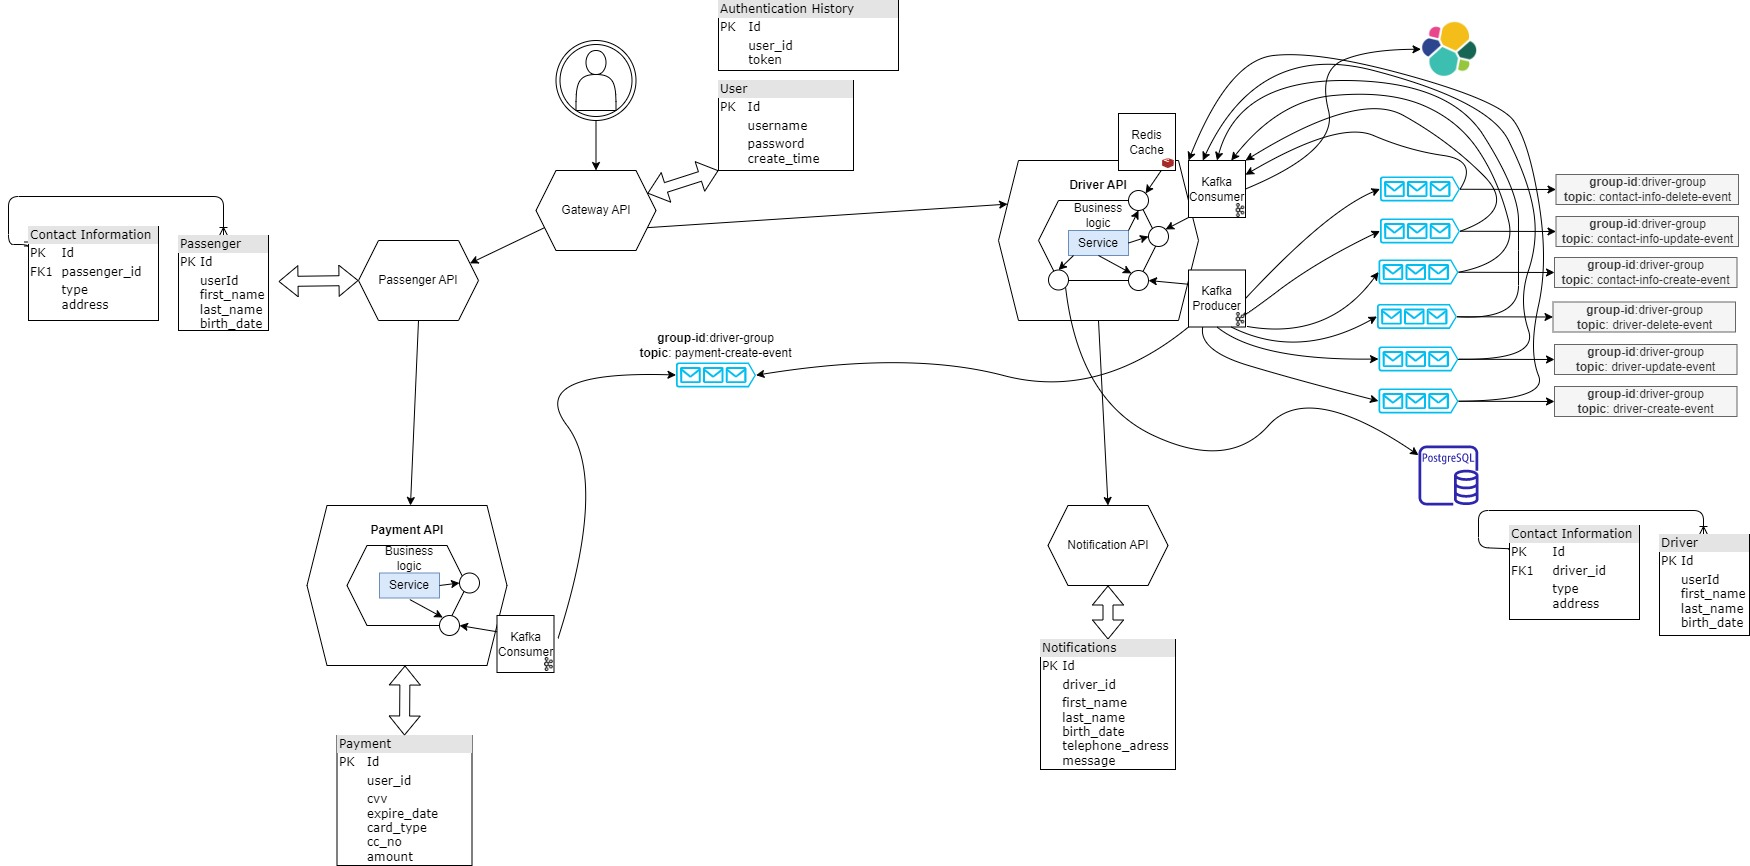
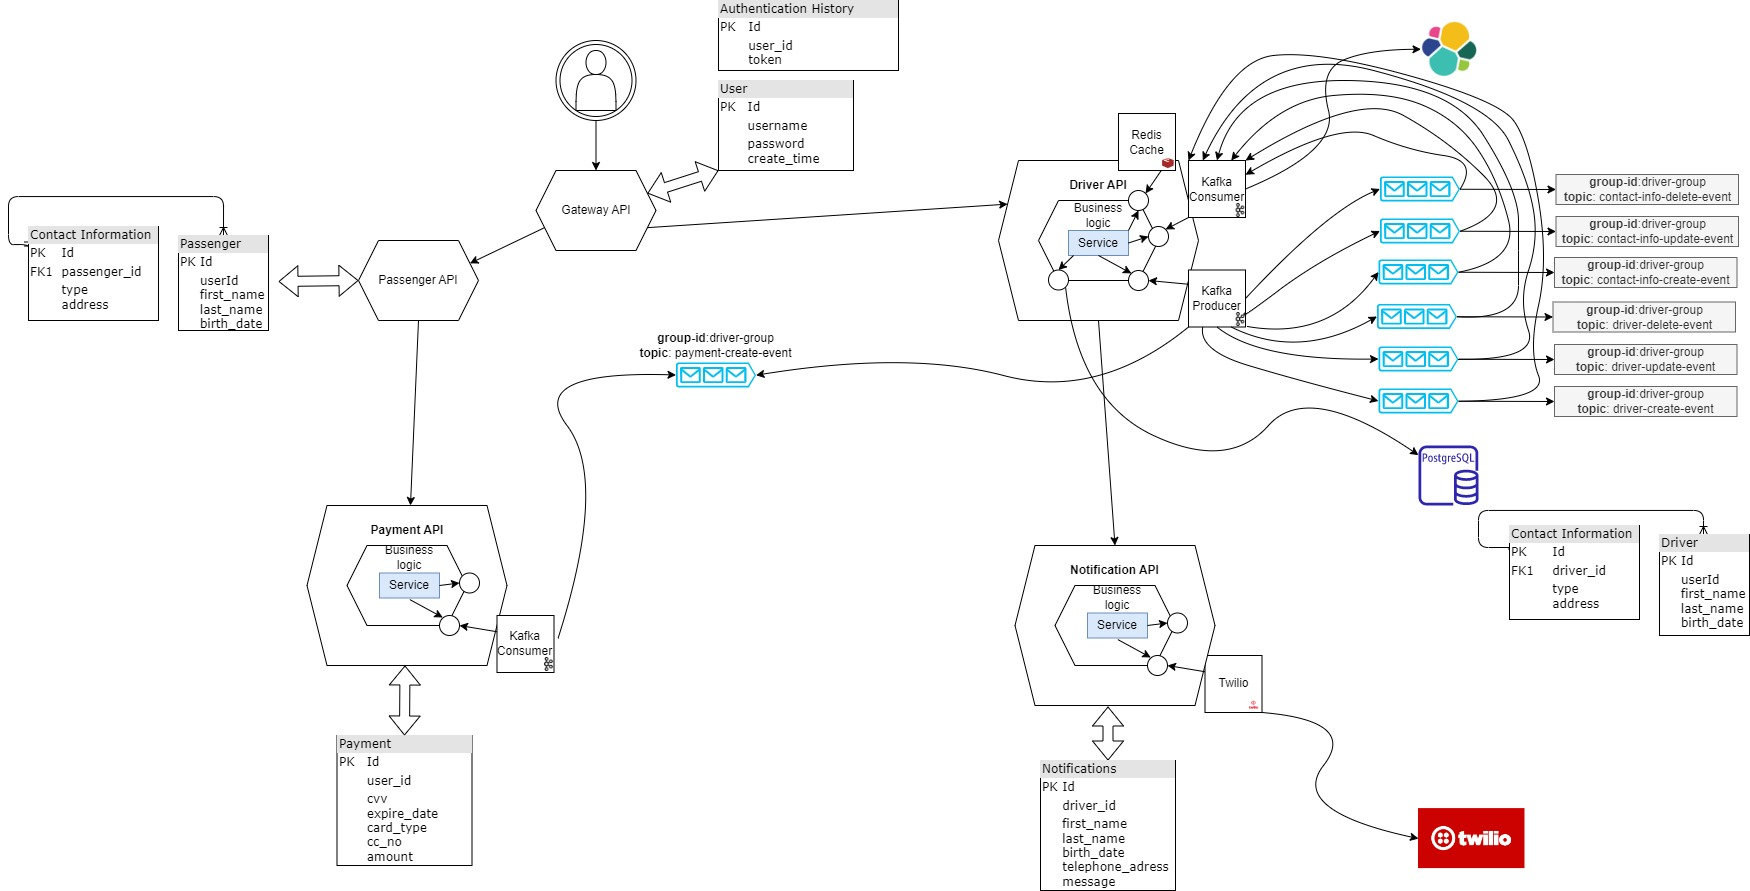
twilio outbound adapter added

diff --git a/src/test/java/com/semihshn/notificationservice/domain/notification/NotificationServiceTest.java b/src/test/java/com/semihshn/notificationservice/domain/notification/NotificationServiceTest.java
@@ -1,6 +1,7 @@
 package com.semihshn.notificationservice.domain.notification;
 
 import com.semihshn.notificationservice.domain.port.NotificationPort;
+import com.semihshn.notificationservice.domain.port.TwilioPort;
 import org.junit.jupiter.api.BeforeEach;
 import org.junit.jupiter.api.Test;
 import org.junit.jupiter.api.extension.ExtendWith;
@@ -10,7 +11,6 @@ import org.mockito.junit.jupiter.MockitoExtension;
 import java.time.LocalDate;
 
 import static org.assertj.core.api.Assertions.assertThat;
-
 import static org.mockito.Mockito.*;
 
 @ExtendWith(MockitoExtension.class)
@@ -21,25 +21,40 @@ class NotificationServiceTest {
     @Mock
     NotificationPort notificationPort;
 
+    @Mock
+    TwilioPort twilioPort;
+
     @BeforeEach
     void setUp() {
-        notificationService = new NotificationService(notificationPort);
+        notificationService = new NotificationService(notificationPort, twilioPort);
     }
 
     @Test
     void create() {
         //given
+        String ACCOUNT_SID = "1001";
+        String TO = "1002";
+        String FROM = "1003";
+        String MESSAGE = "message_test";
+
         Notification notification = Notification.builder().build();
 
         //mock
         Notification createdNotification = Notification.builder().id(3L).build();
         when(notificationPort.create(any())).thenReturn(createdNotification);
 
+        TwilioResponse twilioResponse = TwilioResponse.builder()
+                .accountSid(ACCOUNT_SID)
+                .to(TO)
+                .from(FROM)
+                .build();
+        when(twilioPort.sendSms(notification)).thenReturn(twilioResponse);
+
         //when
-        Long createdNotificationId = notificationService.create(notification);
+        TwilioResponse createdMessage = notificationService.send(notification);
 
         //then
-        assertThat(createdNotificationId).isEqualTo(3);
+        assertThat(createdMessage.getAccountSid()).isEqualTo(ACCOUNT_SID);
     }
 
     @Test

diff --git a/src/main/java/com/semihshn/notificationservice/adapter/rest/notification/NotificationController.java b/src/main/java/com/semihshn/notificationservice/adapter/rest/notification/NotificationController.java
@@ -1,9 +1,11 @@
 package com.semihshn.notificationservice.adapter.rest.notification;
 
-import com.semihshn.notificationservice.adapter.rest.notification.request.NotificationCreateRequest;
-import com.semihshn.notificationservice.adapter.rest.notification.response.NotificationCreateResponse;
+import com.semihshn.notificationservice.adapter.rest.notification.request.NotificationSendRequest;
+import com.semihshn.notificationservice.adapter.rest.notification.response.NotificationSendResponse;
 import com.semihshn.notificationservice.adapter.rest.notification.response.NotificationResponse;
 import com.semihshn.notificationservice.domain.notification.NotificationService;
+import com.semihshn.notificationservice.domain.notification.TwilioResponse;
+import com.twilio.rest.api.v2010.account.Message;
 import lombok.RequiredArgsConstructor;
 import org.springframework.http.HttpStatus;
 import org.springframework.web.bind.annotation.*;
@@ -17,9 +19,9 @@ public class NotificationController {
     private final NotificationService notificationService;
 
     @PostMapping()
-    public NotificationCreateResponse create(@RequestBody @Valid NotificationCreateRequest request) {
-        Long createdNotificationId = notificationService.create(request.convertToNotification());
-        return NotificationCreateResponse.builder().id(createdNotificationId).build();
+    public NotificationSendResponse send(@RequestBody @Valid NotificationSendRequest request) {
+        TwilioResponse twilioResponse = notificationService.send(request.convertToNotification());
+        return NotificationSendResponse.from(twilioResponse);
     }
 
     @DeleteMapping("{notificationId}")

diff --git a/src/main/java/com/semihshn/notificationservice/adapter/twilio/TwilioAdapter.java b/src/main/java/com/semihshn/notificationservice/adapter/twilio/TwilioAdapter.java
@@ -1,0 +1,35 @@
+package com.semihshn.notificationservice.adapter.twilio;
+
+import com.semihshn.notificationservice.domain.notification.Notification;
+import com.semihshn.notificationservice.domain.notification.TwilioResponse;
+import com.semihshn.notificationservice.domain.port.TwilioPort;
+import com.twilio.Twilio;
+import com.twilio.rest.api.v2010.account.Message;
+import com.twilio.type.PhoneNumber;
+import lombok.extern.slf4j.Slf4j;
+import org.springframework.stereotype.Service;
+
+@Service
+@Slf4j
+public class TwilioAdapter implements TwilioPort {
+
+    private final TwilioProperties twilioProperties;
+
+    public TwilioAdapter(TwilioProperties twilioProperties) {
+        this.twilioProperties = twilioProperties;
+    }
+
+    @Override
+    public TwilioResponse sendSms(Notification notification) {
+        Twilio.init(twilioProperties.getAccountSid(), twilioProperties.getAuthToken());
+        Message message = Message.creator(
+                        new PhoneNumber(notification.getTelephoneAddress()),
+                        new PhoneNumber(twilioProperties.getPhoneNumber()),
+                        notification.getMessage())
+                .create();
+
+        log.info("twilio message sent, message sid: {}",message.getSid());
+
+        return TwilioResponse.from(message);
+    }
+}

diff --git a/src/main/java/com/semihshn/notificationservice/domain/notification/NotificationService.java b/src/main/java/com/semihshn/notificationservice/domain/notification/NotificationService.java
@@ -1,17 +1,26 @@
 package com.semihshn.notificationservice.domain.notification;
 
 import com.semihshn.notificationservice.domain.port.NotificationPort;
+import com.semihshn.notificationservice.domain.port.TwilioPort;
+import com.twilio.rest.api.v2010.account.Message;
 import lombok.RequiredArgsConstructor;
+import lombok.extern.slf4j.Slf4j;
 import org.springframework.stereotype.Service;
 
 @Service
 @RequiredArgsConstructor
+@Slf4j
 public class NotificationService {
     private final NotificationPort notificationPort;
+    private final TwilioPort twilioPort;
 
-    public Long create(Notification notification) {
+    public TwilioResponse send(Notification notification) {
+        TwilioResponse twilioResponse = twilioPort.sendSms(notification);
+
         Notification temp = notificationPort.create(notification);
-        return temp.getId();
+        log.info("notification saved to db, notification persistence id: {}", temp.getId());
+
+        return twilioResponse;
     }
 
     public Notification retrieve(Long id) {

diff --git a/src/main/java/com/semihshn/notificationservice/adapter/rest/notification/response/NotificationSendResponse.java b/src/main/java/com/semihshn/notificationservice/adapter/rest/notification/response/NotificationSendResponse.java
@@ -1,0 +1,26 @@
+package com.semihshn.notificationservice.adapter.rest.notification.response;
+
+import com.semihshn.notificationservice.domain.notification.TwilioResponse;
+import com.twilio.rest.api.v2010.account.Message;
+import lombok.*;
+
+@Setter
+@Getter
+@Builder
+@NoArgsConstructor
+@AllArgsConstructor
+public class NotificationSendResponse {
+    private String from;
+    private String to;
+    private String price;
+    private String accountSid;
+
+    public static NotificationSendResponse from(TwilioResponse twilioResponse) {
+        return NotificationSendResponse.builder()
+                .from(twilioResponse.getFrom())
+                .to(twilioResponse.getTo())
+                .price(twilioResponse.getPrice())
+                .accountSid(twilioResponse.getAccountSid())
+                .build();
+    }
+}

diff --git a/src/main/java/com/semihshn/notificationservice/adapter/twilio/TwilioProperties.java b/src/main/java/com/semihshn/notificationservice/adapter/twilio/TwilioProperties.java
@@ -1,0 +1,27 @@
+package com.semihshn.notificationservice.adapter.twilio;
+
+import lombok.Getter;
+import lombok.Setter;
+import org.springframework.boot.context.properties.ConfigurationProperties;
+import org.springframework.context.annotation.Configuration;
+import org.springframework.validation.annotation.Validated;
+
+import javax.validation.constraints.NotBlank;
+import javax.validation.constraints.NotNull;
+
+@Getter
+@Setter
+@Validated
+@Configuration
+@ConfigurationProperties(prefix = "twilio")
+public class TwilioProperties {
+
+    @NotBlank
+    private String accountSid;
+
+    @NotNull
+    private String authToken;
+
+    @NotNull
+    private String phoneNumber;
+}

diff --git a/src/main/java/com/semihshn/notificationservice/domain/notification/TwilioResponse.java b/src/main/java/com/semihshn/notificationservice/domain/notification/TwilioResponse.java
@@ -1,0 +1,25 @@
+package com.semihshn.notificationservice.domain.notification;
+
+import com.twilio.rest.api.v2010.account.Message;
+import lombok.*;
+
+@Setter
+@Getter
+@Builder
+@NoArgsConstructor
+@AllArgsConstructor
+public class TwilioResponse {
+    private String from;
+    private String to;
+    private String price;
+    private String accountSid;
+
+    public static TwilioResponse from(Message message) {
+        return TwilioResponse.builder()
+                .from(message.getFrom().getEndpoint())
+                .to(message.getTo())
+                .price(message.getPrice())
+                .accountSid(message.getAccountSid())
+                .build();
+    }
+}

diff --git a/src/main/java/com/semihshn/notificationservice/adapter/rest/notification/request/NotificationSendRequest.java b/src/main/java/com/semihshn/notificationservice/adapter/rest/notification/request/NotificationSendRequest.java
@@ -9,7 +9,7 @@ import java.time.LocalDate;
 
 @Getter
 @Setter
-public class NotificationCreateRequest {
+public class NotificationSendRequest {
 
     @NotNull
     private Long driverId;
@@ -28,7 +28,6 @@ public class NotificationCreateRequest {
 
     @NotNull
     private String message;
-
 
     public Notification convertToNotification() {
         return Notification.builder()

diff --git a/src/main/java/com/semihshn/notificationservice/domain/port/TwilioPort.java b/src/main/java/com/semihshn/notificationservice/domain/port/TwilioPort.java
@@ -1,0 +1,9 @@
+package com.semihshn.notificationservice.domain.port;
+
+import com.semihshn.notificationservice.domain.notification.Notification;
+import com.semihshn.notificationservice.domain.notification.TwilioResponse;
+
+public interface TwilioPort {
+
+    TwilioResponse sendSms(Notification notification);
+}

diff --git a/README.md b/README.md
@@ -1,3 +1,3 @@
 # Diagram
 
-<img src="microservices_diagram.png">
+<img src="img.jpg">
